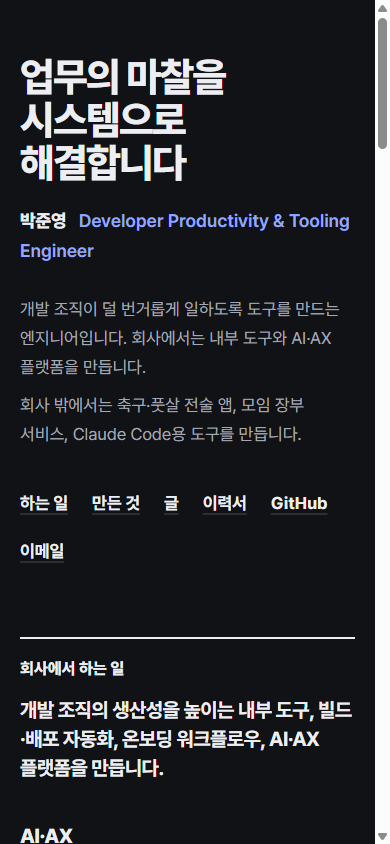
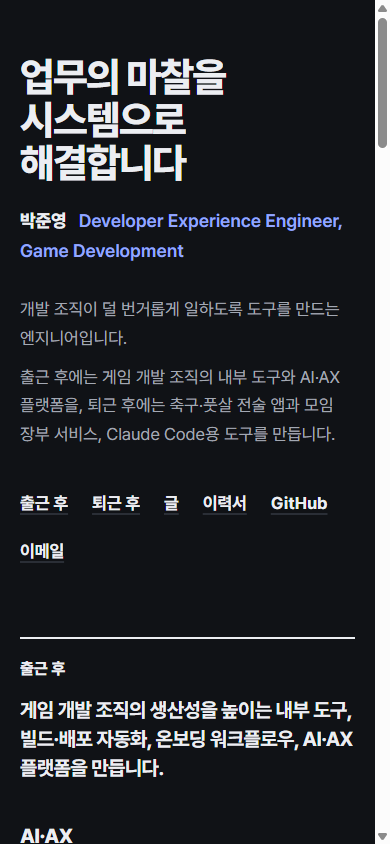
docs: rhyme the home sections and add the employer wordmark
Sections are now titled for after clocking in and after clocking out. The official Smilegate wordmark replaces the logo slot, and the English title shows a DX candidate with the game development context.

Claude-Session: https://claude.ai/code/session_01DZpLi4tfTJayDuuEE3zf7n

diff --git a/docs/ux-concepts/career-site-home/concept-03/index.html b/docs/ux-concepts/career-site-home/concept-03/index.html
@@ -25,7 +25,9 @@
     .lead { max-width: 30em; font-size: clamp(1.25rem, 2.4vw, 1.625rem); font-weight: 700; line-height: 1.45; letter-spacing: -0.025em; }
     .employer { display: flex; flex-wrap: wrap; align-items: center; justify-content: space-between; gap: 12px 24px; margin-top: 36px; padding-top: 20px; border-top: 1px solid var(--rule); }
     .employer .more { margin-top: 0; }
-    .logo-slot { display: inline-grid; place-items: center; width: 176px; height: 44px; font-size: 13px; color: var(--ink-2); border: 1px dashed var(--ink-2); }
+    .employer-logo img { display: block; width: 132px; height: auto; }
+    .employer-logo .on-dark, :root[data-theme="dark"] .employer-logo .on-light { display: none; }
+    :root[data-theme="dark"] .employer-logo .on-dark { display: block; }
     /* Work: four fields side by side. */
     .fields { display: grid; grid-template-columns: repeat(4, minmax(0, 1fr)); gap: 32px; margin-top: 36px; }
     .fields > div { display: grid; grid-template-rows: subgrid; grid-row: span 3; gap: 0; } /* headings, blurbs and lists line up across fields */
@@ -57,8 +59,8 @@
     <p class="role" id="who"></p>
     <div class="intro" id="intro"></div>
     <nav class="nav" aria-label="주요 메뉴">
-      <a href="#work-title">하는 일</a>
-      <a href="#made-title">만든 것</a>
+      <a href="#work-title">출근 후</a>
+      <a href="#made-title">퇴근 후</a>
       <a href="#posts-title">글</a>
       <a href="../../career-site-simple/concept-04/index.html">이력서</a>
       <a href="https://github.com/jaywapp" target="_blank" rel="noopener noreferrer">GitHub</a>
@@ -67,18 +69,22 @@
   </header>
   <main class="rest">
     <section>
-      <h2 id="work-title">회사에서 하는 일</h2>
+      <h2 id="work-title">출근 후</h2>
       <p class="lead" id="work-lead"></p>
       <div class="fields" id="fields"></div>
       <div class="employer">
-        <!-- TODO: official horizontal Smilegate logo, about 160x40, light and dark versions. Supplied by the owner. -->
-        <span class="logo-slot" role="img" aria-label="스마일게이트 가로 로고가 들어갈 자리">가로 로고 자리</span>
+        <!-- Official wordmark from https://www.smilegate.com/assets/img/common/ (fetched 2026-11-14). Trademark of Smilegate; not redrawn or recolored. -->
+        <span class="employer-logo">
+          <img class="on-light" src="../shared/smilegate-logo-black.svg" alt="Smilegate" width="160" height="32">
+          <img class="on-dark" src="../shared/smilegate-logo-white.svg" alt="Smilegate" width="160" height="32">
+        </span>
         <a class="more" href="../../career-site-simple/concept-04/index.html">이력서에서 자세히 보기</a>
       </div>
     </section>
     <section>
-      <h2 id="made-title">회사 밖에서 만든 것</h2>
-      <div class="group"><h3>서비스와 앱</h3><ul class="made" id="made-service"></ul></div>
+      <h2 id="made-title">퇴근 후</h2>
+      <p class="lead">내가 쓰고 싶은 서비스와 일할 때 필요한 도구를 직접 만듭니다.</p>
+      <div class="group" style="margin-top: 36px"><h3>서비스와 앱</h3><ul class="made" id="made-service"></ul></div>
       <div class="group"><h3>개발자 도구와 AI</h3><ul class="made" id="made-tool"></ul></div>
     </section>
     <section>
@@ -101,7 +107,7 @@
       // What I do at work: the current employer's work grouped by field (same data as the resume).
       const now = C.companies.find((c) => !c.end);
       // No employer name in the text (owner's call, 2026-11-14). The employer shows as a logo under the fields.
-      H.set('work-lead', '개발 조직의 생산성을 높이는 내부 도구, 빌드·배포 자동화, 온보딩 워크플로우, AI·AX 플랫폼을 만듭니다.');
+      H.set('work-lead', '게임 개발 조직의 생산성을 높이는 내부 도구, 빌드·배포 자동화, 온보딩 워크플로우, AI·AX 플랫폼을 만듭니다.');
       H.set('fields', C.themes
         .map((t) => ({ t: t, list: now.projects.filter((p) => p.theme === t.id) }))
         .filter((x) => x.list.length)

diff --git a/docs/ux-concepts/career-site-home/shared/home.js b/docs/ux-concepts/career-site-home/shared/home.js
@@ -7,13 +7,14 @@ window.REVIEW_CONCEPTS = [
 
 window.HOME = {
   name: '박준영',
-  role: 'Developer Productivity & Tooling Engineer',
+  // Candidate English title (2026-11-14): the owner prefers DX and wants the game development context in it.
+  role: 'Developer Experience Engineer, Game Development',
   // The page title is the slogan, not the name (owner's call, 2026-11-14). From messages/ko.json hero.eyebrow.
   slogan: '업무의 마찰을 시스템으로 해결합니다',
   // Written for these drafts from facts already on the site. To be confirmed by the owner.
   intro: [
-    '개발 조직이 덜 번거롭게 일하도록 도구를 만드는 엔지니어입니다. 회사에서는 내부 도구와 AI·AX 플랫폼을 만듭니다.',
-    '회사 밖에서는 축구·풋살 전술 앱, 모임 장부 서비스, Claude Code용 도구를 만듭니다.',
+    '개발 조직이 덜 번거롭게 일하도록 도구를 만드는 엔지니어입니다.',
+    '출근 후에는 게임 개발 조직의 내부 도구와 AI·AX 플랫폼을, 퇴근 후에는 축구·풋살 전술 앱과 모임 장부 서비스, Claude Code용 도구를 만듭니다.',
   ],
   // Picked by the owner on 2026-11-14. Link rule (owner's): a deployed project links to the finished thing,
   // a public project also links to GitHub, a private one gets a description only.

diff --git a/docs/ux-concepts/career-site-home/README.md b/docs/ux-concepts/career-site-home/README.md
@@ -89,6 +89,13 @@ M 시안(`concept-03`)에 반영한 것
 - 대신 회사 가로 로고를 "회사에서 하는 일" 아래에 붙인다. 공식 로고 파일을 받지 못해 시안에는 점선 자리만 있다. 로고를 직접 그리거나 비공식 파일을 쓰지 않는다.
 - 영문 직무 표기(Developer Productivity & Tooling Engineer)는 사용자가 맞는지 물었고 아직 정하지 않았다.
 
+사용자 추가 결정 (2026-11-14, 세 번째)
+
+- 구획 제목은 짝이 맞아야 한다("회사안에서 회사밖에서 / 출근후 퇴근후 이런 라임"). **출근 후 / 퇴근 후**로 바꿨다. 메뉴도 같다. 소개 둘째 문단도 "출근 후에는 ..., 퇴근 후에는 ..."으로 맞췄다.
+- 영문 직무: 사용자는 DX(Developer Experience)를 선호하고 게임 개발 업무 환경이 드러나길 원한다. 시안에는 후보로 `Developer Experience Engineer, Game Development`를 넣었다. 확정 전이다.
+- 로고: 사용자가 찾아 달라고 했다. 스마일게이트 공식 사이트(`https://www.smilegate.com/assets/img/common/logo_black.svg`, `logo_white.svg`)에서 2026-11-14에 받은 워드마크를 `shared/smilegate-logo-*.svg`에 두고 고치지 않은 채 쓴다. 상표 사용 허락은 확인하지 못했다.
+- "퇴근 후" 첫 문장("내가 쓰고 싶은 서비스와 일할 때 필요한 도구를 직접 만듭니다.")과 "출근 후" 문장의 "게임 개발 조직"은 내가 쓴 문구다. 사용자 확인이 필요하다.
+
 남은 확인
 
 - 스뽀쓰-맨은 경기 예측 사이트다. 이력서와 같은 사이트에 올려도 되는지는 사용자가 골랐으므로 그대로 넣었다.
